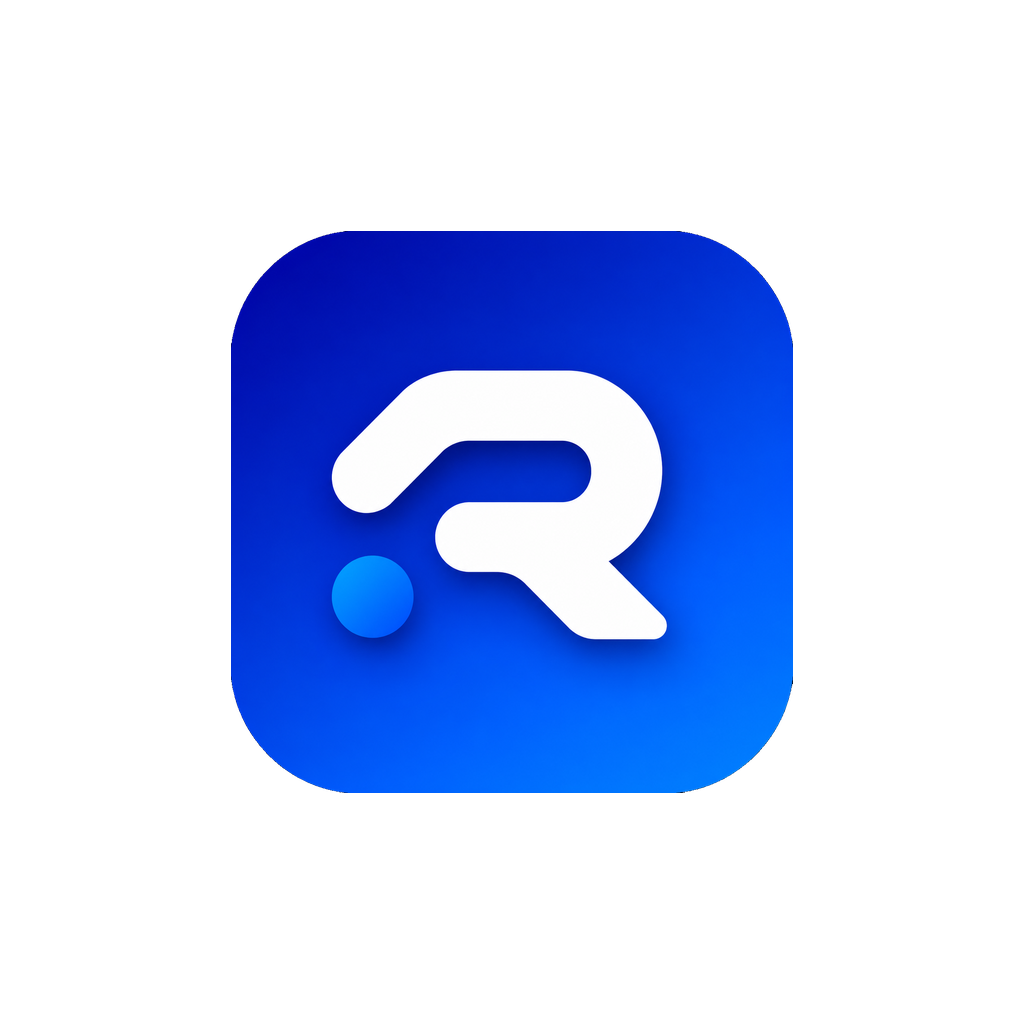
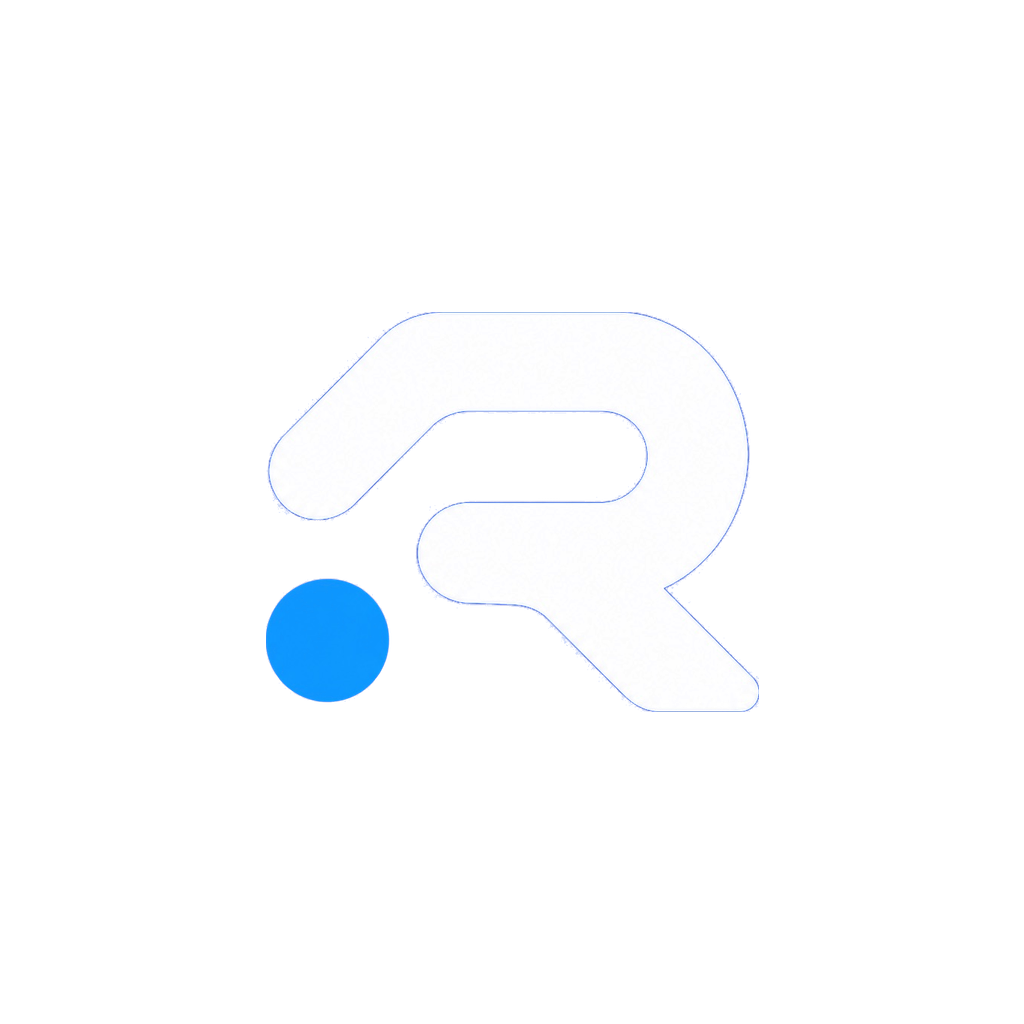
feat(mobile): novo icone do app a partir do arquivo enviado
Tres assets, tres papeis diferentes — e dois deles tem armadilha.

`icon.png`: o quadrado cheio, 1024x1024 opaco. Direto do arquivo
enviado. E o icone legado (iOS e Android antigo), onde a arte ocupa a
moldura inteira.

`adaptive-icon.png`: o FOREGROUND do icone adaptativo do Android — o R
branco e o ponto, recortados em transparencia. Duas decisoes aqui:

1. O alfa nao e um limiar unico. Medi o ruido de compressao do JPEG no
   azul chapado (distancia maxima 7,1; p99,9 = 3,7) contra as duas
   cores da arte (ponto azul a 95 do fundo, R branco a 320). Um limiar
   unico de 58 deixou o ponto azul com 55% de opacidade, porque a cor
   dele e proxima do fundo. Agora a distancia e normalizada pela cor de
   referencia de cada pixel, entao as duas ficam opacas e as duas
   bordas ganham a rampa certa. Conferido no arquivo: fundo alfa 0,
   miolo do ponto 254,9, R 255.

2. A arte e dimensionada pela DIAGONAL, nao pela largura. A primeira
   tentativa usou 60% do lado e o R saiu CORTADO na previa com mascara
   circular: o sistema recorta o foreground num circulo de 72/108 do
   lado (683px de 1024), e o que precisa caber ali e a circunferencia
   que envolve a arte. Uma arte larga e baixa, como este R com o ponto
   ao lado, cabe em largura e estoura nas quinas. Agora a meia-diagonal
   e 317px dentro do raio seguro de 341px, com 7% de folga.

`adaptiveIcon.backgroundColor`: "#0B0F14" -> "#013CE2". O arquivo do
foreground e so a arte; quem pinta a placa e esta cor. Quase preto
[…]

Changed region(s): [[0.2188, 0.2188, 0.7812, 0.7812]]

diff --git a/apps/mobile/app.config.ts b/apps/mobile/app.config.ts
@@ -151,8 +151,19 @@ export default (): ExpoConfig => ({
     googleServicesFile: process.env.GOOGLE_SERVICES_JSON || "./google-services.json",
     permissions: ["ACCESS_FINE_LOCATION", "ACCESS_BACKGROUND_LOCATION"],
     adaptiveIcon: {
+      // A placa de fundo do ícone adaptativo. Era "#0B0F14" (quase
+      // preto) e passou a ser o azul do próprio ícone (01/10/2026):
+      // `adaptive-icon.png` é só o FOREGROUND — o R branco e o ponto,
+      // recortados em transparência — então quem pinta o fundo é esta
+      // cor, não o arquivo. Deixá-la quase preta desenharia o símbolo
+      // branco sobre preto na gaveta de apps, que não é o ícone.
+      //
+      // "#013CE2" não foi escolhido a olho: é a mediana das quatro
+      // bordas do arquivo enviado pelo usuário, medida ao gerar o
+      // recorte. Assim a borda antisserrilhada da arte compõe exatamente
+      // sobre a mesma cor de que foi separada, sem halo.
       foregroundImage: "./assets/adaptive-icon.png",
-      backgroundColor: "#0B0F14",
+      backgroundColor: "#013CE2",
     },
   },
   web: {
